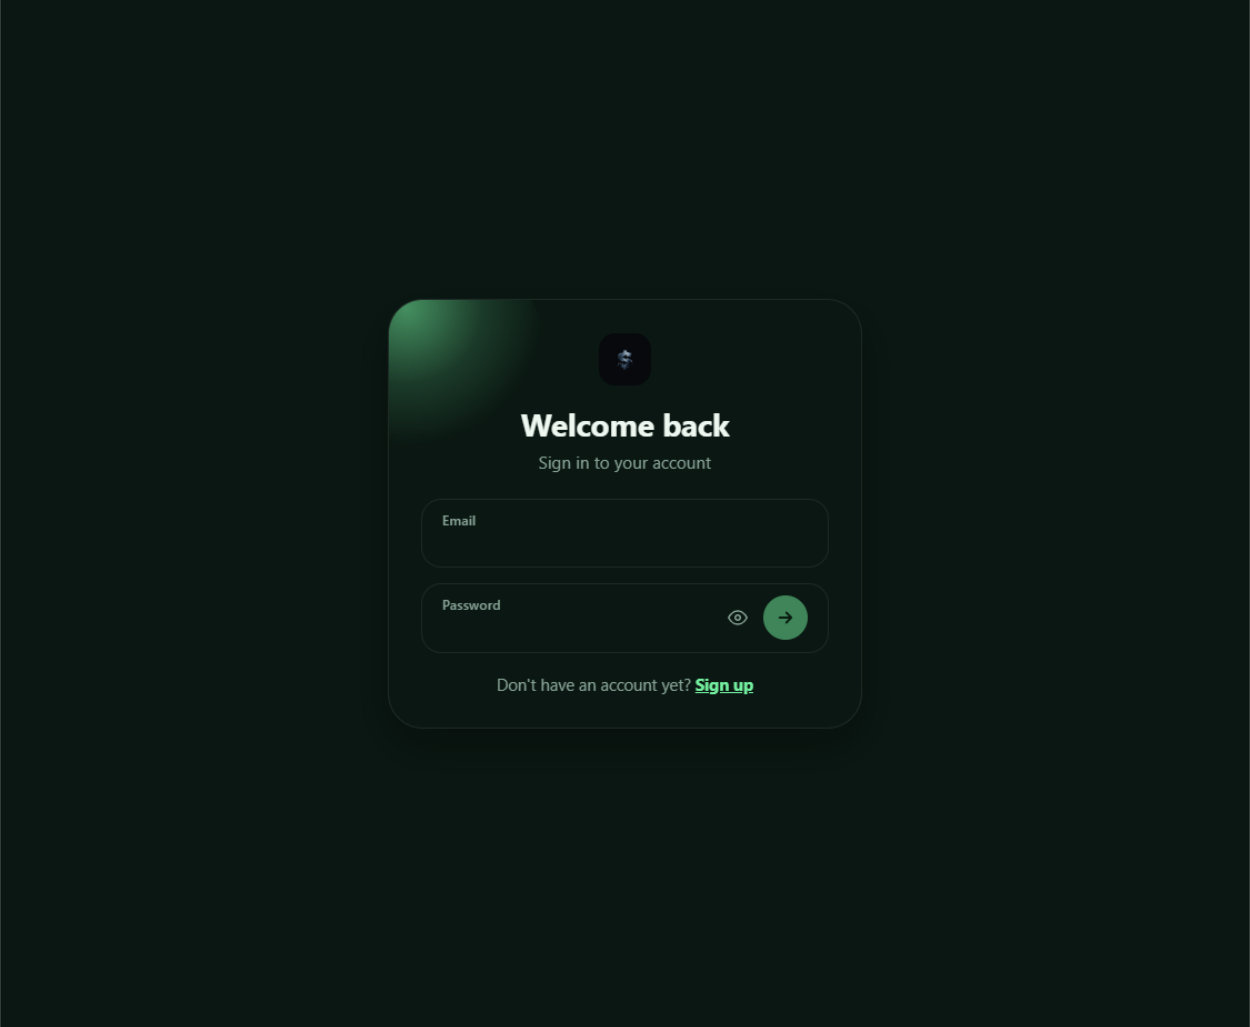
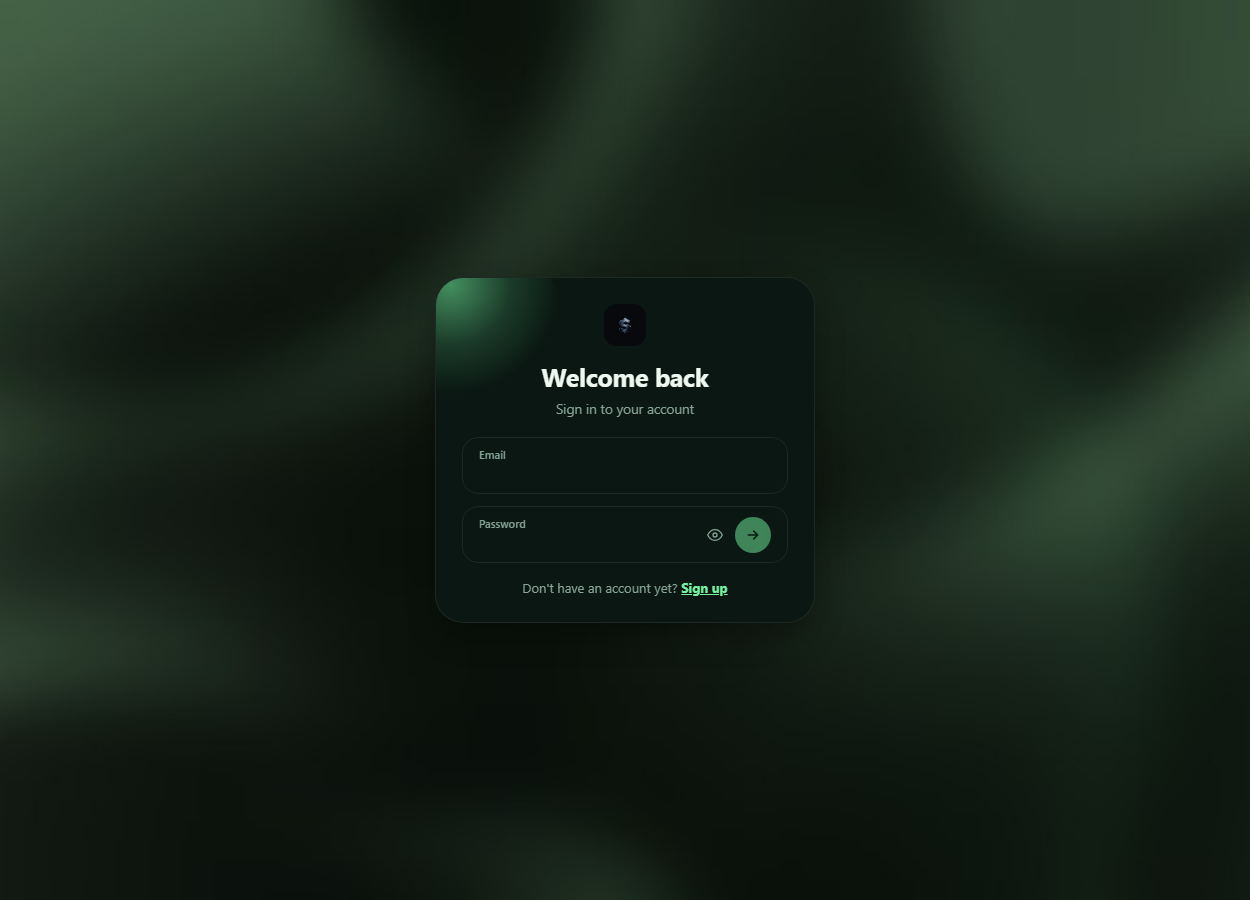
Update Expense Tracker screenshots: blurred glass background
Login/Register now show the new frosted-glass background behind the
auth card, and Register gets its own gallery entry for the first time.

diff --git a/index.html b/index.html
@@ -335,8 +335,12 @@
 
         <div class="project-gallery">
           <figure>
-            <img src="assets/screenshots/expense-tracker/login.png" alt="Expense Tracker login screen: a dark glass card with a green accent glow, email and password fields, and a circular submit button" loading="lazy">
-            <figcaption>Login — glass card with a green accent glow</figcaption>
+            <img src="assets/screenshots/expense-tracker/login.png" alt="Expense Tracker login screen: a dark glass card with a green accent glow over a wavy green gradient background, email and password fields, and a circular submit button" loading="lazy">
+            <figcaption>Login — glass card over a wavy gradient background</figcaption>
+          </figure>
+          <figure>
+            <img src="assets/screenshots/expense-tracker/register.png" alt="Expense Tracker registration screen with full name, email, and password fields over the same wavy green gradient background as the login screen" loading="lazy">
+            <figcaption>Register — full name, email, and password</figcaption>
           </figure>
           <figure>
             <img src="assets/screenshots/expense-tracker/dashboard.png" alt="Expense Tracker dashboard with budget progress, recent expenses, and a category breakdown chart" loading="lazy">
